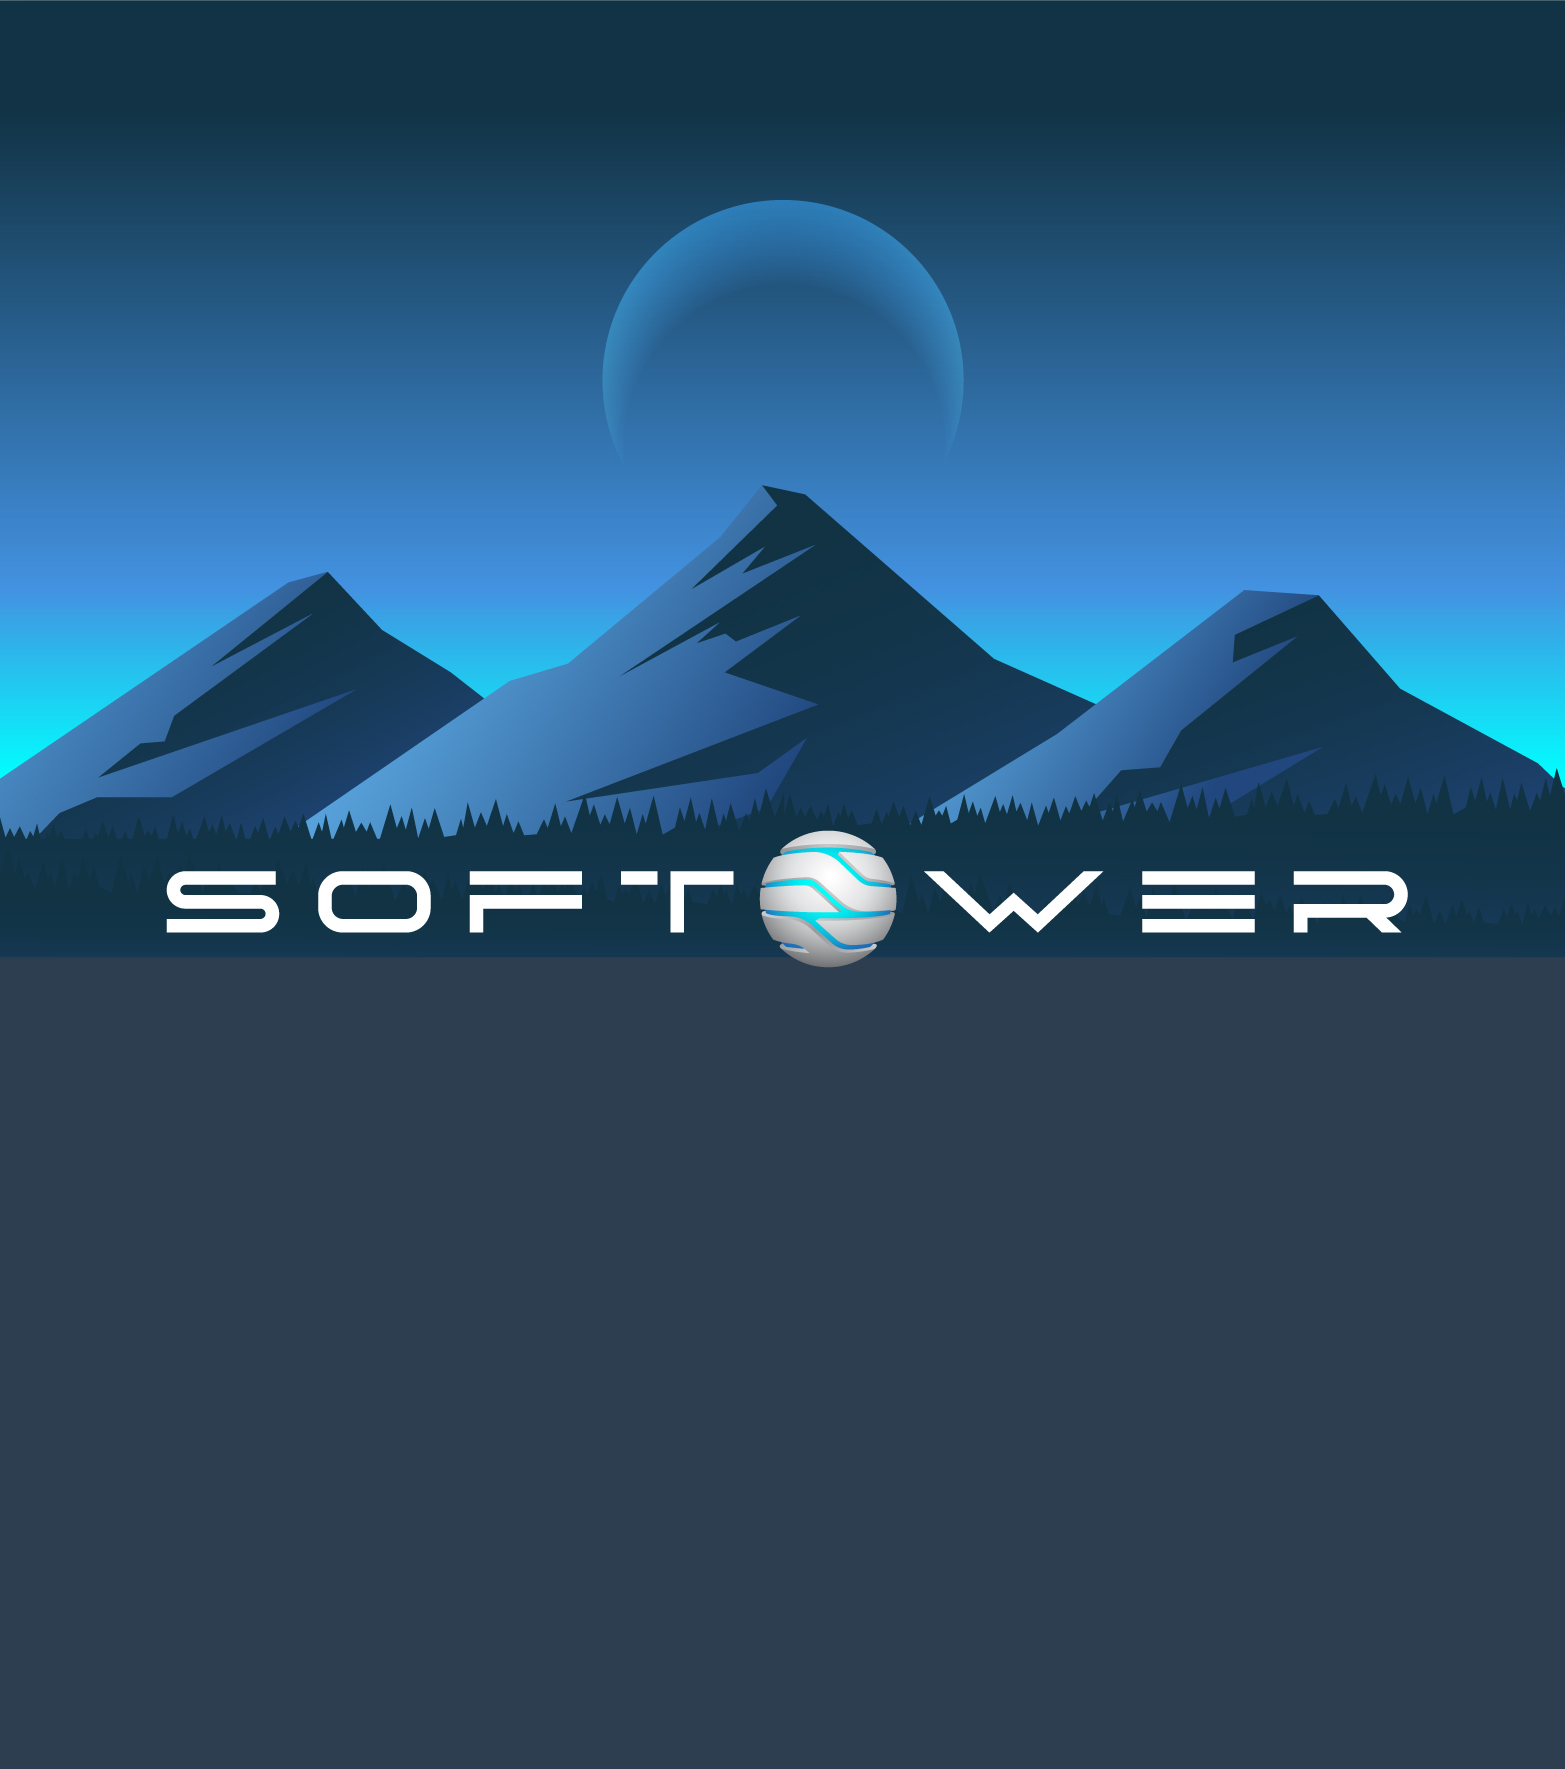
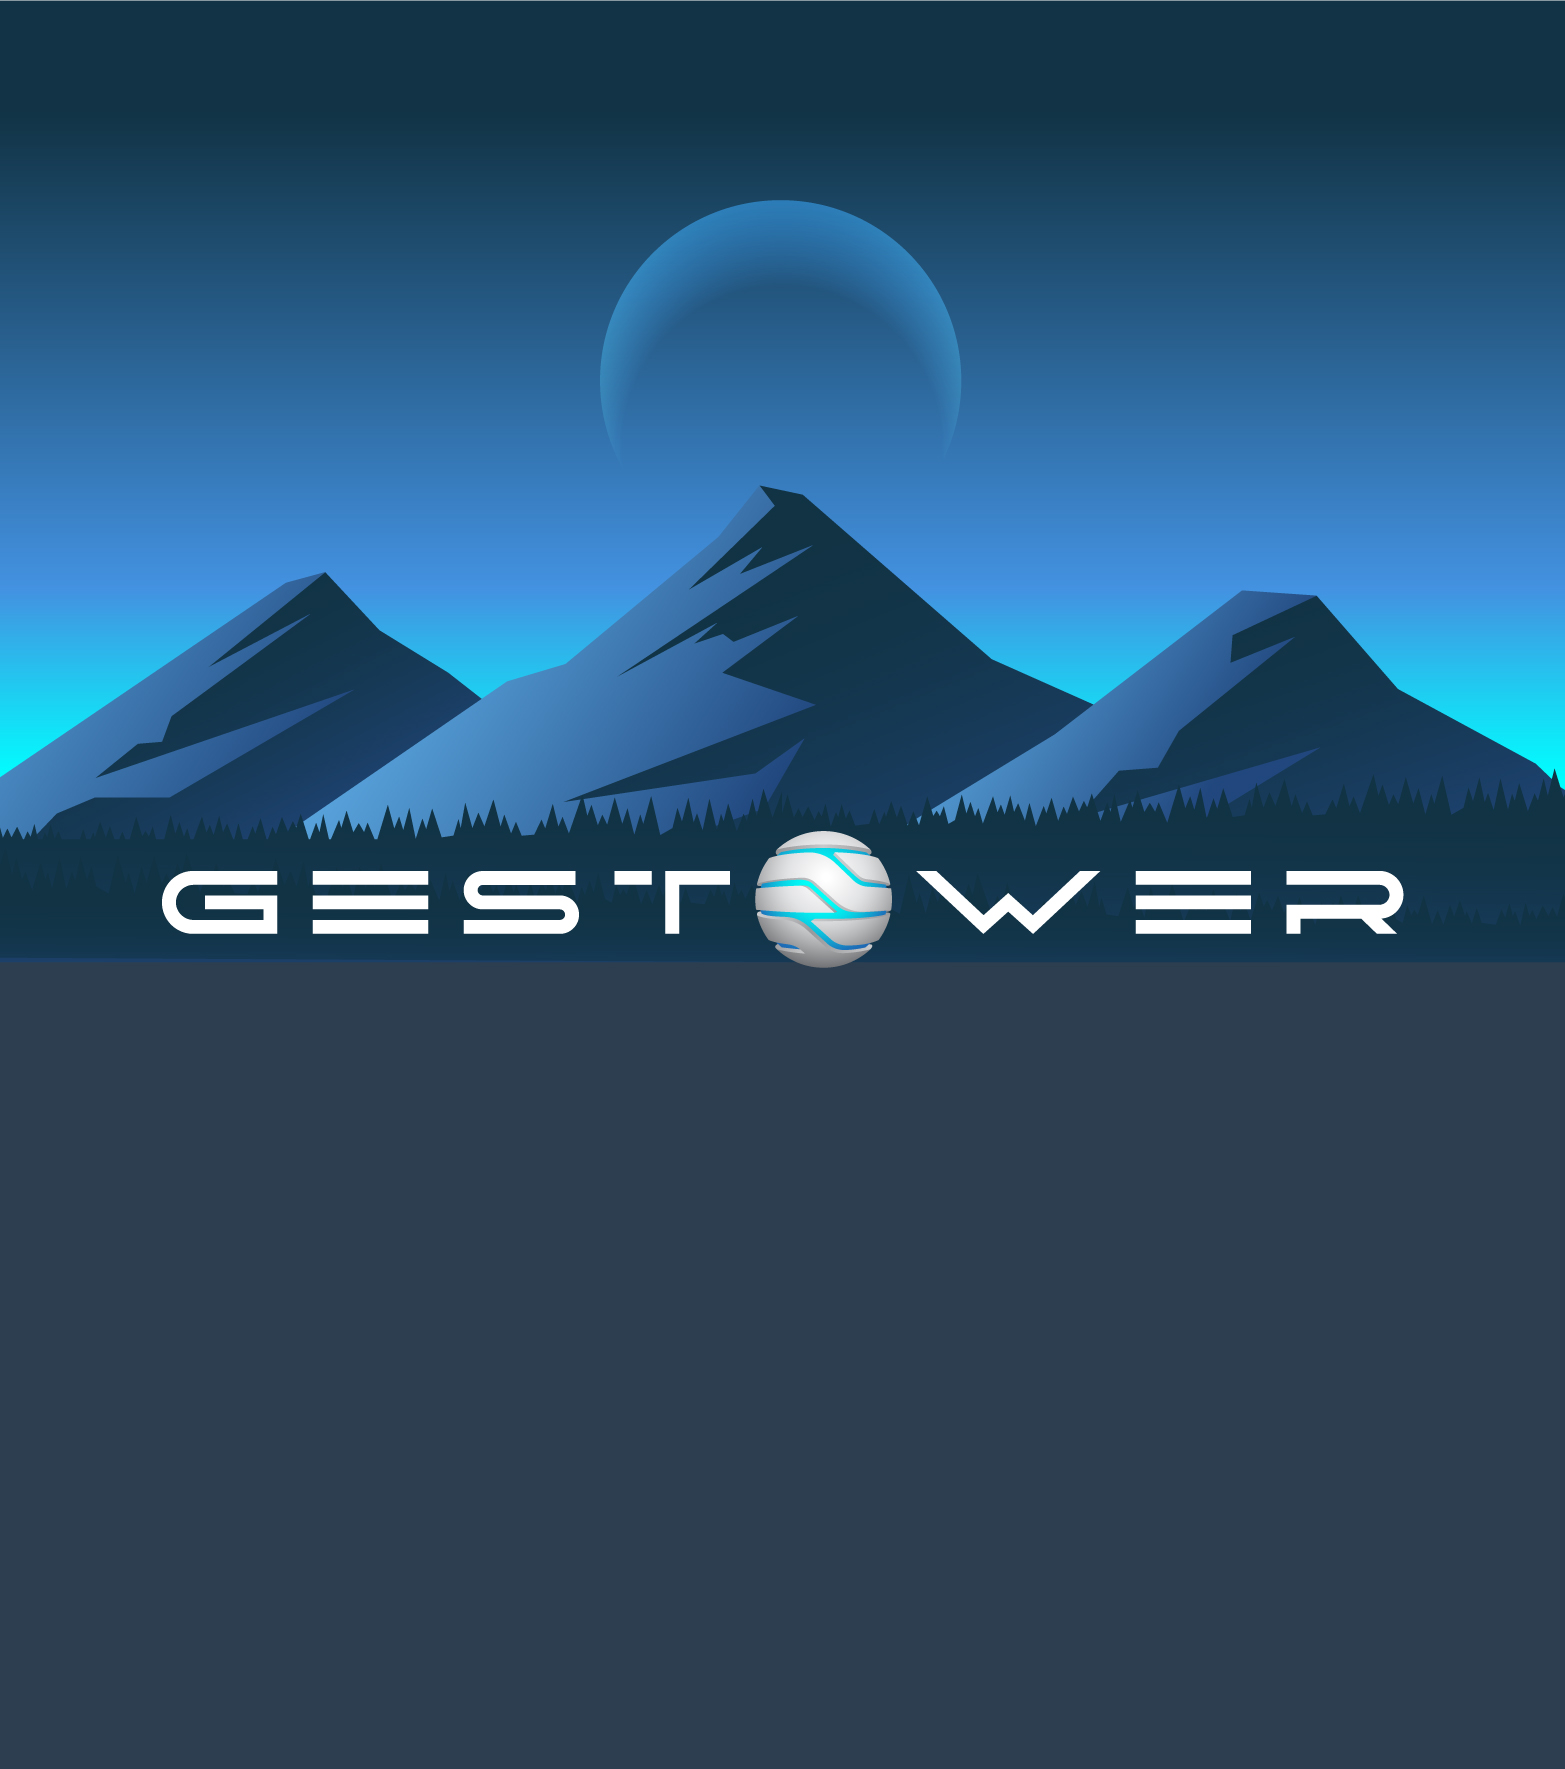
online token

diff --git a/lib/utils/axios.dart b/lib/utils/axios.dart
@@ -1,18 +1,58 @@
 import 'dart:convert';
 import 'package:http/http.dart' as http;
+import 'package:shared_preferences/shared_preferences.dart';
 
 class Axios {
   static const String baseUrl =
       // "http://localhost:3001/api";
-      "https://backuptower-production.up.railway.app/api";
+      "https://api.gestower.com/api";
+
+  static Future<String?> getToken() async {
+    final prefs = await SharedPreferences.getInstance();
+    return prefs.getString('token');
+  }
+
+  static Future<Map<String, String>> _getHeaders() async {
+    final token = await getToken();
+    return {
+      "Authorization": token != null ? "Bearer $token" : "",
+      "Content-Type": "application/json",
+    };
+  }
+
   static Future<http.Response> post(
     String endpoint,
     Map<String, dynamic> body,
-  ) {
-    return http.post(
-      Uri.parse("$baseUrl$endpoint"), // 🔹 Usa la URL base con el endpoint
-      headers: {"Content-Type": "application/json"},
-      body: jsonEncode(body),
-    );
+  ) async {
+    try {
+      final headers = await _getHeaders();
+      final response = await http.post(
+        Uri.parse("$baseUrl$endpoint"),
+        headers: headers,
+        body: jsonEncode(body),
+      );
+      return response;
+    } catch (e) {
+      print("🚨 Error en POST $endpoint: $e");
+      return http.Response('{"message": "Error en la petición"}', 500);
+    }
+  }
+
+  static Future<http.Response> patch(
+    String endpoint,
+    Map<String, dynamic> body,
+  ) async {
+    try {
+      final headers = await _getHeaders();
+      final response = await http.patch(
+        Uri.parse("$baseUrl$endpoint"),
+        headers: headers,
+        body: jsonEncode(body),
+      );
+      return response;
+    } catch (e) {
+      print("🚨 Error en PATCH $endpoint: $e");
+      return http.Response('{"message": "Error en la petición"}', 500);
+    }
   }
 }

diff --git a/lib/providers/auth_provider.dart b/lib/providers/auth_provider.dart
@@ -20,22 +20,27 @@ class AuthProvider extends ChangeNotifier {
     notifyListeners();
 
     try {
-      if (email == "asistencia@towerandtower.com.pe" &&
-          password == "Tow3r(2025)*.") {
-        _token = "token_falso_123";
+      final response = await Axios.post("/login", {
+        "email": email,
+        "password": password,
+      });
+
+      final data = jsonDecode(response.body);
+
+      if (response.statusCode == 200 && data["token"] != null) {
+        _token = data["token"];
         await _saveToken(_token!);
         notifyListeners();
+
         if (context.mounted) {
           Navigator.pushReplacementNamed(context, "/asistencia");
         }
       } else {
-        throw Exception(
-          "Usuario o contraseña incorrectos",
-        ); // Mantener mensaje real
+        throw Exception(data["message"] ?? "Error en login");
       }
     } catch (error) {
       print("Error en login: $error");
-      throw Exception('Error de conexión con el servidor');
+      throw Exception("Error de conexión con el servidor");
     } finally {
       _isLoading = false;
       notifyListeners();

diff --git a/lib/services/asistencia_service.dart b/lib/services/asistencia_service.dart
@@ -35,15 +35,11 @@ class AsistenciaService {
                 "ingreso": obtenerHoraDispositivo(),
                 "fecha": obtenerFechaDispositivo(),
               })
-              : await http.patch(
-                Uri.parse(Axios.baseUrl + endpoint),
-                headers: {"Content-Type": "application/json"},
-                body: jsonEncode({
-                  'dni': qrCode,
-                  '$tipo': obtenerHoraDispositivo(),
-                  "fecha": obtenerFechaDispositivo(),
-                }),
-              );
+              : await Axios.patch(endpoint, {
+                'dni': qrCode,
+                '$tipo': obtenerHoraDispositivo(),
+                "fecha": obtenerFechaDispositivo(),
+              });
 
       final responseData = jsonDecode(response.body);
       final int statusCode = response.statusCode;
